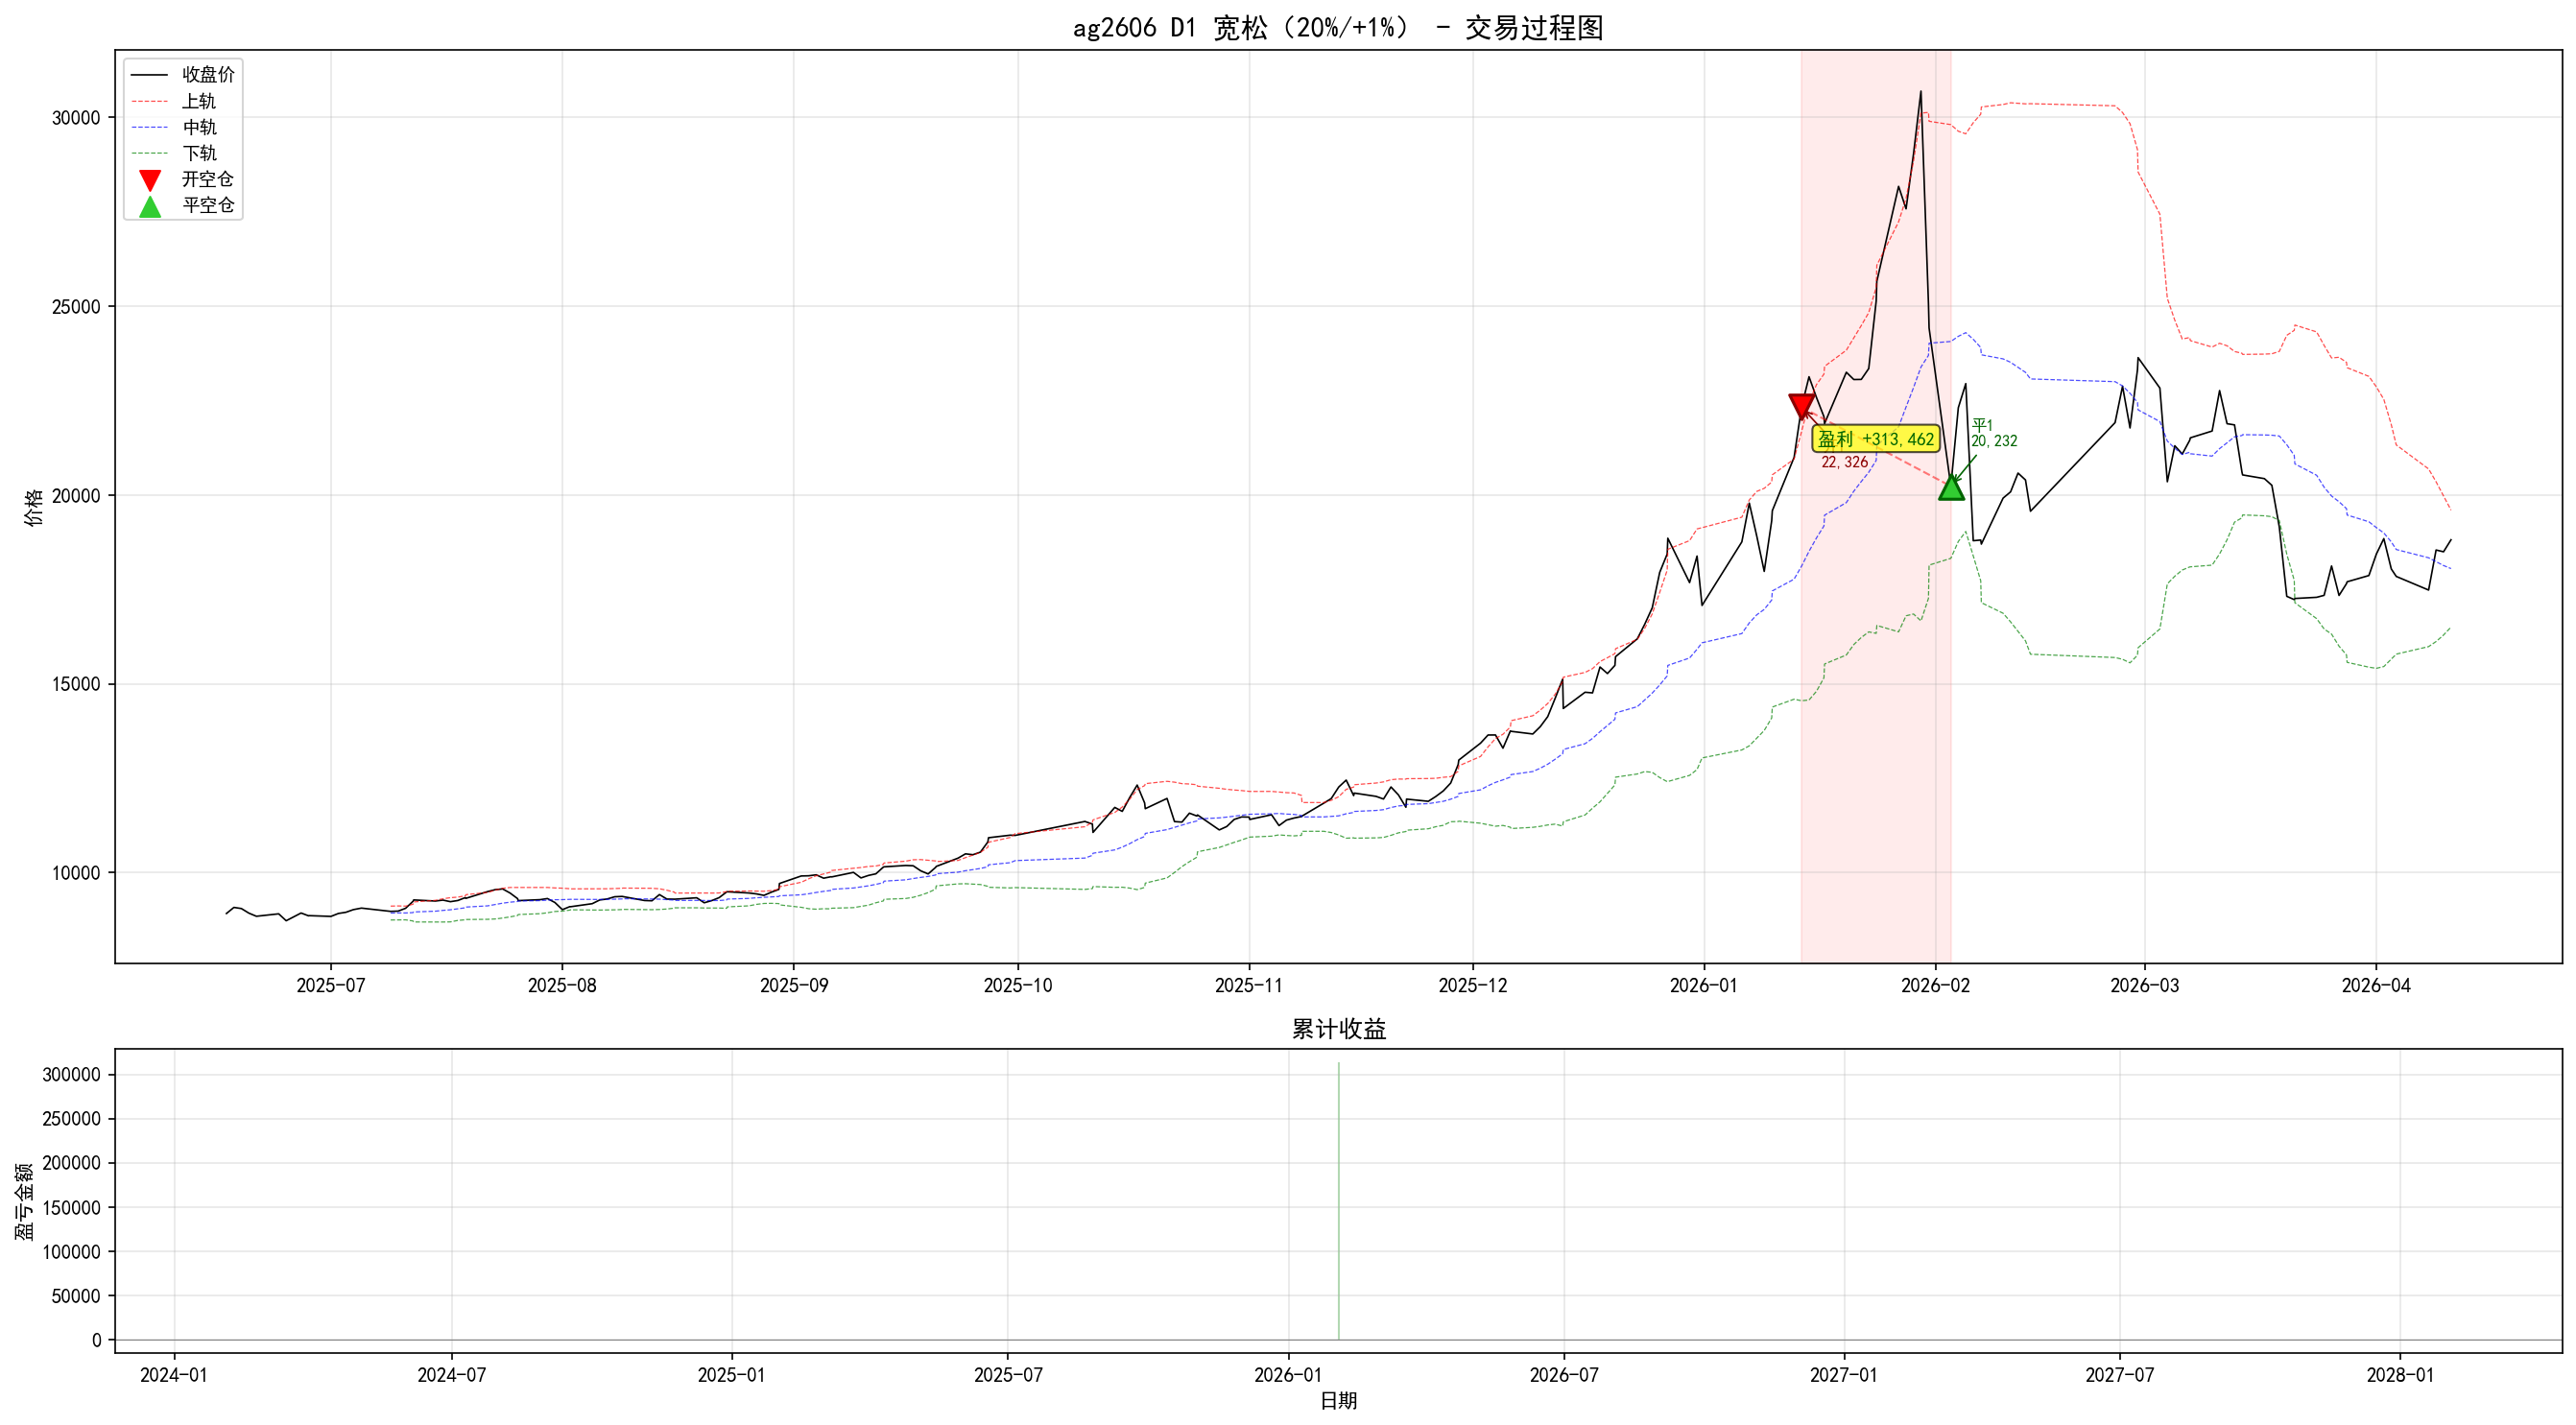
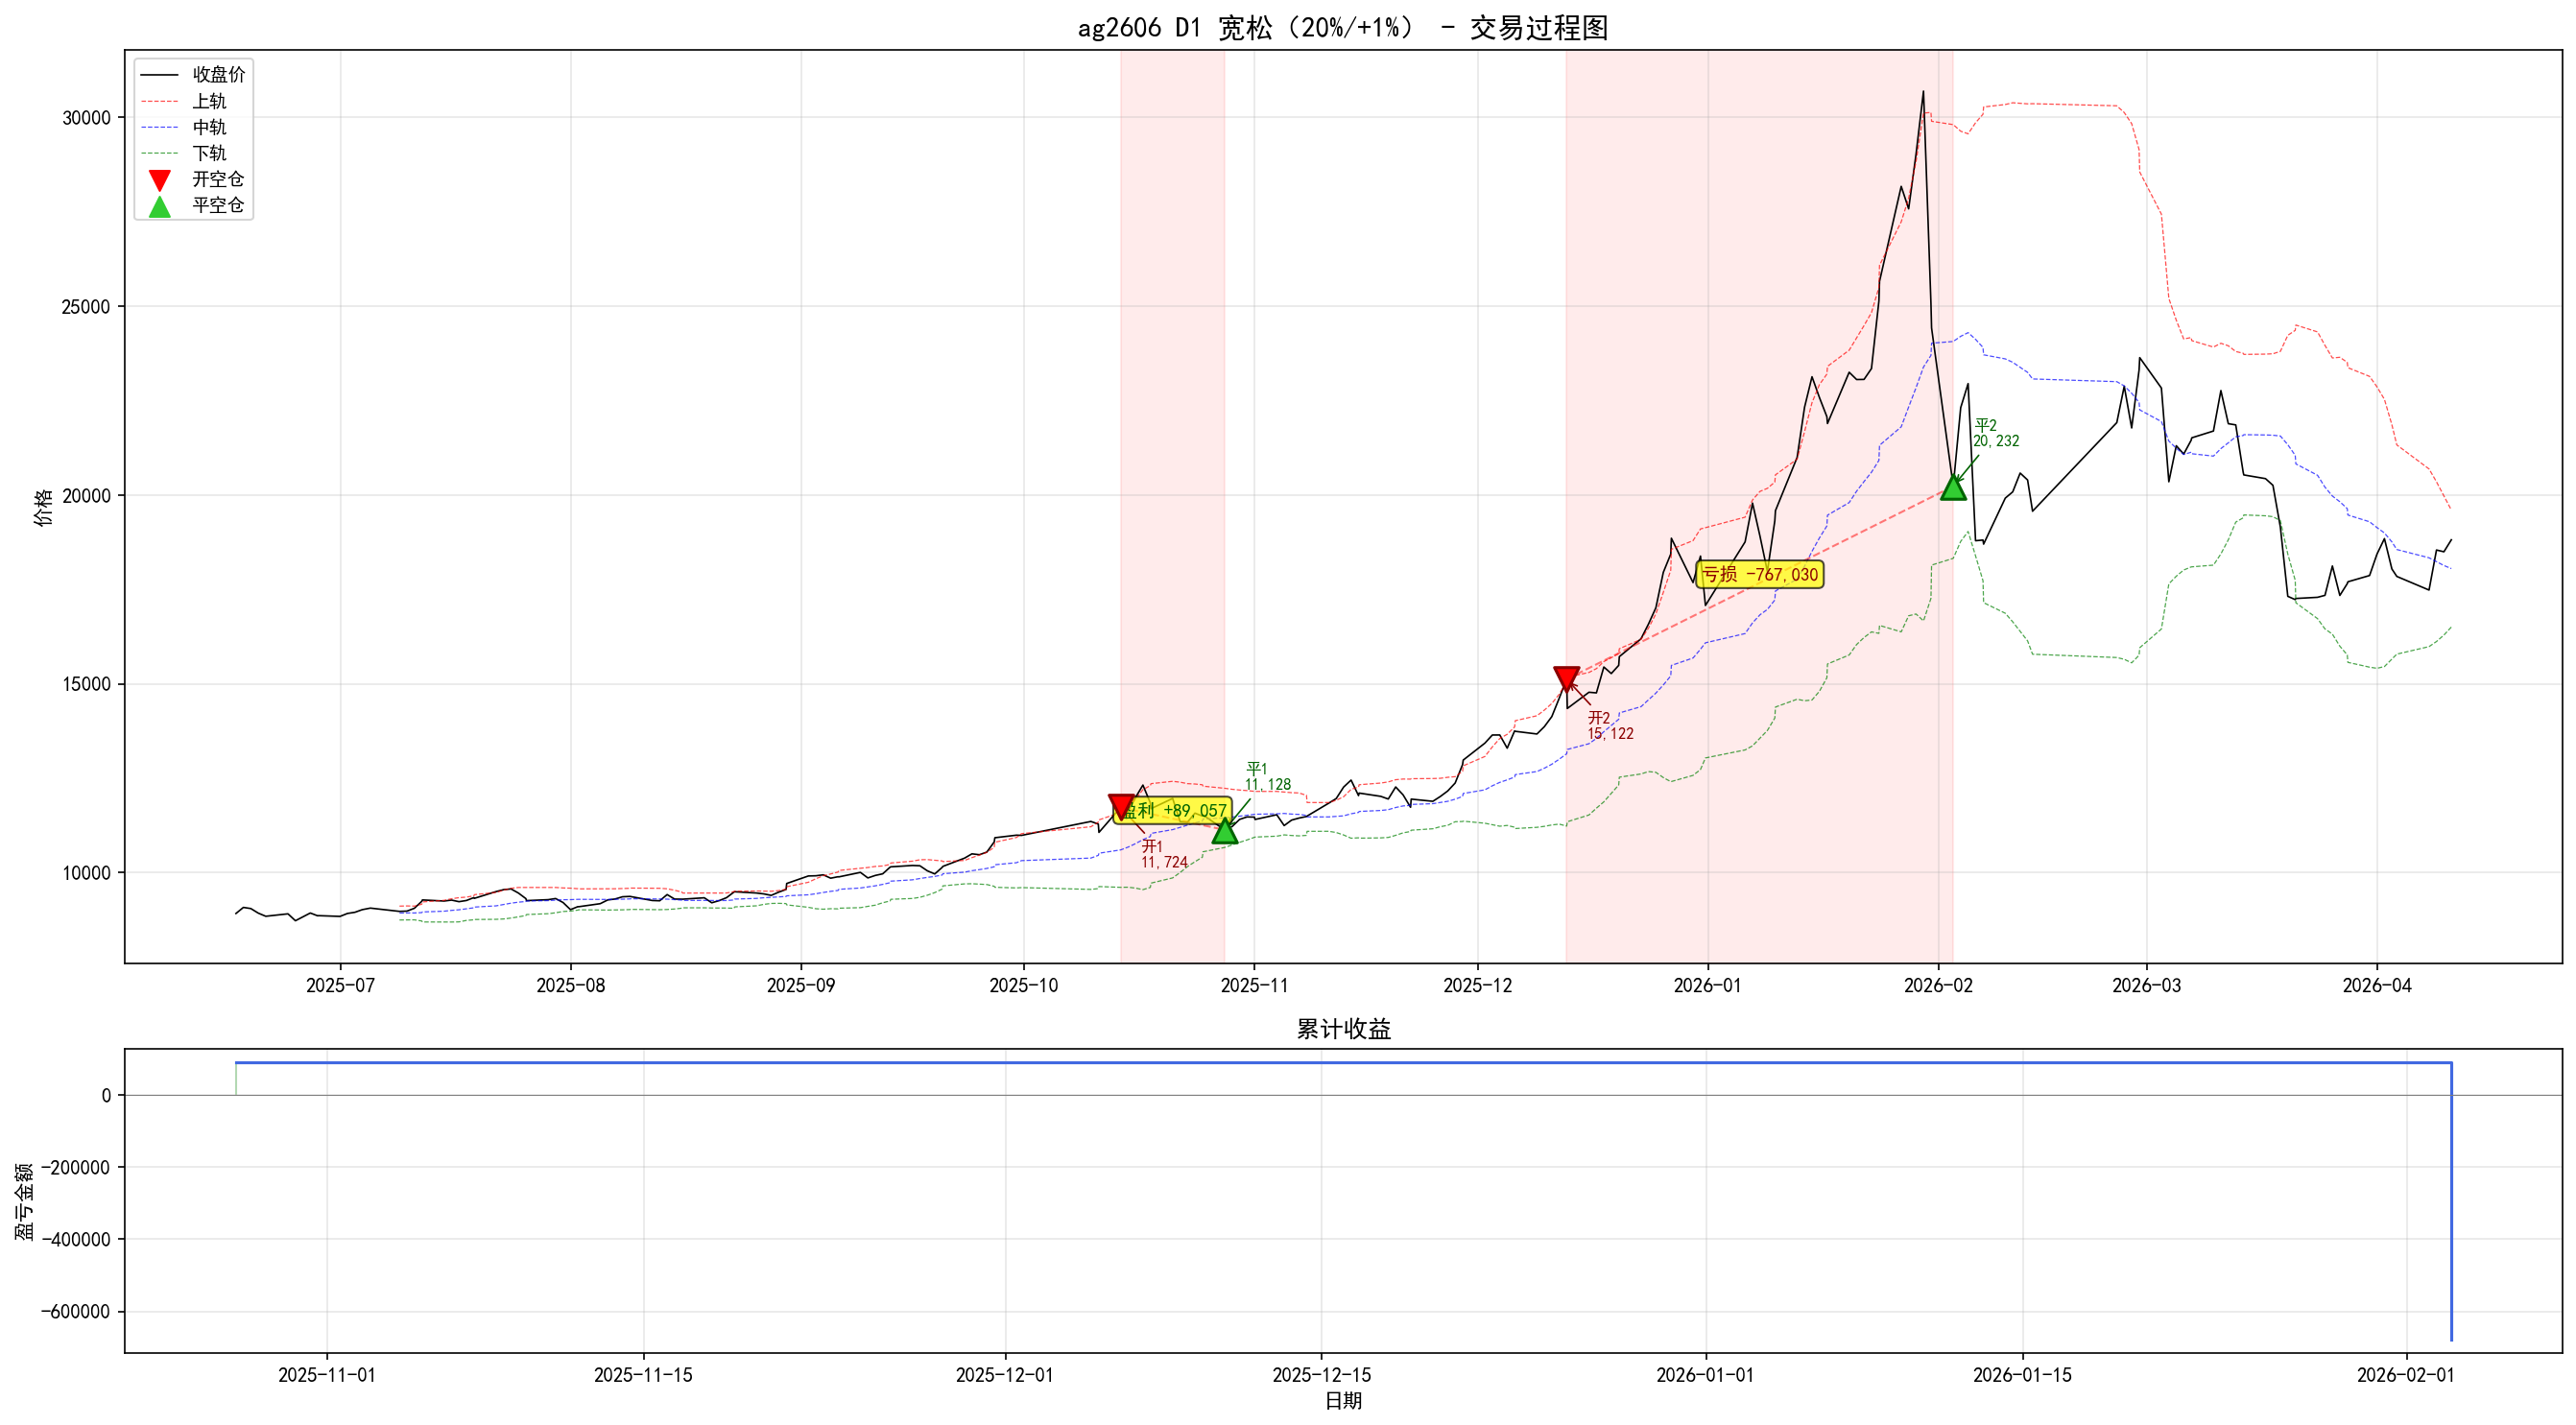
回测报告

diff --git a/docs/res/backtest_report_merged.md b/docs/res/backtest_report_merged.md
@@ -1,6 +1,6 @@
 # 布林带做空策略 - 多周期回测融合报告
 
-> 生成时间: 2026-04-26 22:15:48
+> 生成时间: 2026-04-26 22:29:52
 > 数据来源: H2 原始数据，H4（每2根合并），D1（按日聚合）
 
 ## 一、策略参数
@@ -23,45 +23,7 @@
 ### 平仓条件
 - 价格回落到布林带中轨以下时平仓
 
-## 二、多周期汇总
-
-### 严谨模式
-
-| 品种 | H2 | H4 | D1 |
-|------|----|----|----|
-| CF2505 | - | - | - |
-| FG2505 | - | - | - |
-| IC2603 | - | - | - |
-| IF2603 | - | - | - |
-| IH2603 | - | - | - |
-| IM2603 | - | - | - |
-| MA2505 | - | - | - |
-| RM2505 | - | - | - |
-| SA2505 | - | - | - |
-| SR2505 | - | - | - |
-| T2506 | - | - | - |
-| TA2505 | - | - | - |
-| TF2506 | - | - | - |
-| TS2506 | - | - | - |
-| a2505 | - | - | - |
-| ag2606 | - | - | **1笔** +313,462 |
-| al2506 | - | - | - |
-| au2506 | - | - | - |
-| bu2506 | - | - | - |
-| c2505 | - | - | - |
-| cs2505 | - | - | - |
-| cu2506 | - | - | - |
-| hc2506 | - | - | - |
-| i2505 | - | - | - |
-| m2505 | - | - | - |
-| ni2506 | - | - | - |
-| p2505 | - | - | - |
-| rb2601 | - | - | - |
-| ru2506 | - | - | - |
-| y2505 | - | - | - |
-| zn2506 | - | - | - |
-
-### 宽松模式
+## 二、严谨模式 汇总
 
 | 品种 | H2 | H4 | D1 |
 |------|----|----|----|
@@ -97,79 +59,137 @@
 | y2505 | - | - | - |
 | zn2506 | - | - | - |
 
+## 二、宽松模式 汇总
+
+| 品种 | H2 | H4 | D1 |
+|------|----|----|----|
+| CF2505 | - | - | - |
+| FG2505 | **1笔** +12,146 | - | - |
+| IC2603 | - | - | - |
+| IF2603 | - | - | - |
+| IH2603 | - | - | - |
+| IM2603 | - | - | - |
+| MA2505 | - | - | - |
+| RM2505 | - | - | - |
+| SA2505 | - | - | - |
+| SR2505 | - | - | - |
+| T2506 | - | - | - |
+| TA2505 | - | - | - |
+| TF2506 | - | - | - |
+| TS2506 | - | - | - |
+| a2505 | - | - | - |
+| ag2606 | **1笔** +106,859 | **2笔** +345,101 | **2笔** -677,973 |
+| al2506 | - | - | - |
+| au2506 | - | - | **1笔** +366,588 |
+| bu2506 | - | - | - |
+| c2505 | - | - | - |
+| cs2505 | - | - | - |
+| cu2506 | - | - | - |
+| hc2506 | - | - | - |
+| i2505 | - | - | - |
+| m2505 | - | - | - |
+| ni2506 | - | - | - |
+| p2505 | - | - | - |
+| rb2601 | - | - | - |
+| ru2506 | - | **1笔** +141,623 | - |
+| y2505 | - | - | - |
+| zn2506 | - | - | - |
+
 ## 三、三周期对比
 
 | | H2（2小时） | H4（4小时） | D1（日线） |
 |--|------------|------------|----------|
-| 严谨模式 交易笔数 | 0 | 0 | 1 |
-| 严谨模式 总盈亏 | +0 | +0 | +313,462 |
-| 宽松模式 交易笔数 | 1 | 0 | 1 |
-| 宽松模式 总盈亏 | +12,146 | +0 | +313,462 |
+| 严谨模式 交易笔数 | 1 | 0 | 1 |
+| 严谨模式 总盈亏 | +12,146 | +0 | +313,462 |
+| 宽松模式 交易笔数 | 2 | 3 | 3 |
+| 宽松模式 总盈亏 | +119,005 | +486,723 | -311,385 |
 
-## 四、交易详情与过程图
+## 四、交易详情
+
+### FG2505 - 2小时 - 严谨（25%/+2%）
+
+- 数据范围: 2024-05-17 ~ 2025-05-19（719 条）
+- 合约乘数: 20, 最大带宽: 0.2666
+- 交易: 1笔, 胜率: 100.0%, 总盈亏: +12,145.8
+
+| # | 开仓日期 | 开仓价 | 平仓日期 | 平仓价 | 持仓天数 | 点数 | 手续费 | 净盈亏 |
+|---|---------|--------|---------|--------|---------|------|--------|--------|
+| 1 | 2024-09-27 | 1,385 | 2024-10-10 | 1,324 | 12 | +61.0 | 54.2 | +12,145.8 |
 
 ### FG2505 - 2小时 - 宽松（20%/+1%）
 
-- 数据范围: 2024-05-17 ~ 2025-05-19（719 条记录）
-- 合约乘数: 20
-- 最大带宽: 0.2666
-- 交易笔数: 1
-- 盈利/亏损: 1/0
-- 胜率: 100.0%
-- 总盈亏: +12,145.8 元
-- 平均持仓天数: 12.0
+- 数据范围: 2024-05-17 ~ 2025-05-19（719 条）
+- 合约乘数: 20, 最大带宽: 0.2666
+- 交易: 1笔, 胜率: 100.0%, 总盈亏: +12,145.8
 
-交易明细:
+| # | 开仓日期 | 开仓价 | 平仓日期 | 平仓价 | 持仓天数 | 点数 | 手续费 | 净盈亏 |
+|---|---------|--------|---------|--------|---------|------|--------|--------|
+| 1 | 2024-09-27 | 1,385 | 2024-10-10 | 1,324 | 12 | +61.0 | 54.2 | +12,145.8 |
 
-| # | 开仓日期 | 开仓价 | 平仓日期 | 平仓价 | 手数 | 持仓天数 | 点数盈亏 | 手续费 | 净盈亏 |
-|---|---------|--------|---------|--------|------|---------|---------|--------|--------|
-| 1 | 2024-09-27 | 1,385 | 2024-10-10 | 1,324 | 10 | 12 | +61.0 | 54.2 | +12,145.8 |
+### ag2606 - 2小时 - 宽松（20%/+1%）
+
+- 数据范围: 2025-06-16 ~ 2026-04-10（988 条）
+- 合约乘数: 15, 最大带宽: 0.5828
+- 交易: 1笔, 胜率: 100.0%, 总盈亏: +106,858.9
+
+| # | 开仓日期 | 开仓价 | 平仓日期 | 平仓价 | 持仓天数 | 点数 | 手续费 | 净盈亏 |
+|---|---------|--------|---------|--------|---------|------|--------|--------|
+| 1 | 2025-12-26 | 18,396 | 2025-12-29 | 17,680 | 3 | +716.0 | 541.1 | +106,858.9 |
+
+### ag2606 - 4小时 - 宽松（20%/+1%）
+
+- 数据范围: 2025-06-17 ~ 2026-04-10（494 条）
+- 合约乘数: 15, 最大带宽: 0.6885
+- 交易: 2笔, 胜率: 100.0%, 总盈亏: +345,100.8
+
+| # | 开仓日期 | 开仓价 | 平仓日期 | 平仓价 | 持仓天数 | 点数 | 手续费 | 净盈亏 |
+|---|---------|--------|---------|--------|---------|------|--------|--------|
+| 1 | 2025-12-26 | 17,982 | 2025-12-31 | 17,074 | 5 | +908.0 | 525.8 | +135,674.2 |
+| 2 | 2026-01-07 | 19,812 | 2026-01-08 | 18,412 | 1 | +1,400.0 | 573.4 | +209,426.6 |
+
+### ru2506 - 4小时 - 宽松（20%/+1%）
+
+- 数据范围: 2024-06-19 ~ 2025-06-16（317 条）
+- 合约乘数: 10, 最大带宽: 0.2658
+- 交易: 1笔, 胜率: 100.0%, 总盈亏: +141,622.6
+
+| # | 开仓日期 | 开仓价 | 平仓日期 | 平仓价 | 持仓天数 | 点数 | 手续费 | 净盈亏 |
+|---|---------|--------|---------|--------|---------|------|--------|--------|
+| 1 | 2024-09-30 | 19,580 | 2024-10-10 | 18,160 | 10 | +1,420.0 | 377.4 | +141,622.6 |
 
 ### ag2606 - 日线 - 严谨（25%/+2%）
 
-- 数据范围: 2025-06-16 ~ 2026-04-10（237 条记录）
-- 合约乘数: 15
-- 最大带宽: 0.6354
-- 交易笔数: 1
-- 盈利/亏损: 1/0
-- 胜率: 100.0%
-- 总盈亏: +313,461.6 元
-- 平均持仓天数: 20.0
+- 数据范围: 2025-06-16 ~ 2026-04-10（237 条）
+- 合约乘数: 15, 最大带宽: 0.6354
+- 交易: 1笔, 胜率: 100.0%, 总盈亏: +313,461.6
 
-交易明细:
-
-| # | 开仓日期 | 开仓价 | 平仓日期 | 平仓价 | 手数 | 持仓天数 | 点数盈亏 | 手续费 | 净盈亏 |
-|---|---------|--------|---------|--------|------|---------|---------|--------|--------|
-| 1 | 2026-01-13 | 22,326 | 2026-02-02 | 20,232 | 10 | 20 | +2,094.0 | 638.4 | +313,461.6 |
+| # | 开仓日期 | 开仓价 | 平仓日期 | 平仓价 | 持仓天数 | 点数 | 手续费 | 净盈亏 |
+|---|---------|--------|---------|--------|---------|------|--------|--------|
+| 1 | 2026-01-13 | 22,326 | 2026-02-02 | 20,232 | 20 | +2,094.0 | 638.4 | +313,461.6 |
 
 ### ag2606 - 日线 - 宽松（20%/+1%）
 
-- 数据范围: 2025-06-16 ~ 2026-04-10（237 条记录）
-- 合约乘数: 15
-- 最大带宽: 0.6354
-- 交易笔数: 1
-- 盈利/亏损: 1/0
-- 胜率: 100.0%
-- 总盈亏: +313,461.6 元
-- 平均持仓天数: 20.0
+- 数据范围: 2025-06-16 ~ 2026-04-10（237 条）
+- 合约乘数: 15, 最大带宽: 0.6354
+- 交易: 2笔, 胜率: 50.0%, 总盈亏: -677,973.1
+- 最大回撤: -767,030.3, 平均持仓: 33.0天
 
-交易明细:
+| # | 开仓日期 | 开仓价 | 平仓日期 | 平仓价 | 持仓天数 | 点数 | 手续费 | 净盈亏 |
+|---|---------|--------|---------|--------|---------|------|--------|--------|
+| 1 | 2025-10-13 | 11,724 | 2025-10-27 | 11,128 | 14 | +596.0 | 342.8 | +89,057.2 |
+| 2 | 2025-12-12 | 15,122 | 2026-02-02 | 20,232 | 52 | -5,110.0 | 530.3 | -767,030.3 |
 
-| # | 开仓日期 | 开仓价 | 平仓日期 | 平仓价 | 手数 | 持仓天数 | 点数盈亏 | 手续费 | 净盈亏 |
-|---|---------|--------|---------|--------|------|---------|---------|--------|--------|
-| 1 | 2026-01-13 | 22,326 | 2026-02-02 | 20,232 | 10 | 20 | +2,094.0 | 638.4 | +313,461.6 |
+### au2506 - 日线 - 宽松（20%/+1%）
 
-## 五、结论与分析
+- 数据范围: 2024-05-15 ~ 2025-06-16（313 条）
+- 合约乘数: 1000, 最大带宽: 0.1637
+- 交易: 1笔, 胜率: 100.0%, 总盈亏: +366,588.0
 
-### 整体数据
-- 测试品种: 31 个
-- 测试周期: H2 / H4 / D1
-- 严谨模式总交易: 1 笔
-- 宽松模式总交易: 2 笔
-- 宽松模式总盈亏: +325,607.5 元
+| # | 开仓日期 | 开仓价 | 平仓日期 | 平仓价 | 持仓天数 | 点数 | 手续费 | 净盈亏 |
+|---|---------|--------|---------|--------|---------|------|--------|--------|
+| 1 | 2025-04-22 | 824 | 2025-05-10 | 788 | 17 | +36.8 | 1,612.0 | +366,588.0 |
 
-### 关键发现
-1. **条件组合非常严格**：趋势斜率 + 带宽阈值 + 突破阈值的组合导致信号极少
-2. **不同周期捕捉不同行情**：H2 捕捉 FG（玻璃）短期波动，D1 捕捉 ag（白银）大趋势
-3. **ag2606 白银表现突出**：日线周期下产生 1 笔大额盈利（+31.3 万），说明策略在强趋势品种上有效
-4. **H4 周期信号最少**：数据量减半 + 斜率窗口覆盖时间更长，条件更难满足
+## 五、结论
+
+- 严谨模式: 2笔交易, 总盈亏 +325,607.5
+- 宽松模式: 8笔交易, 总盈亏 +294,343.0